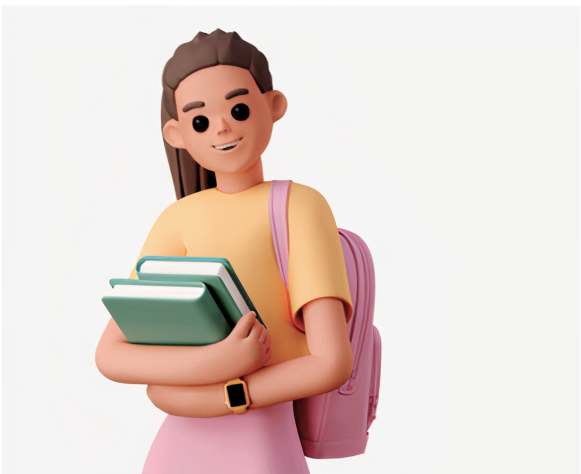
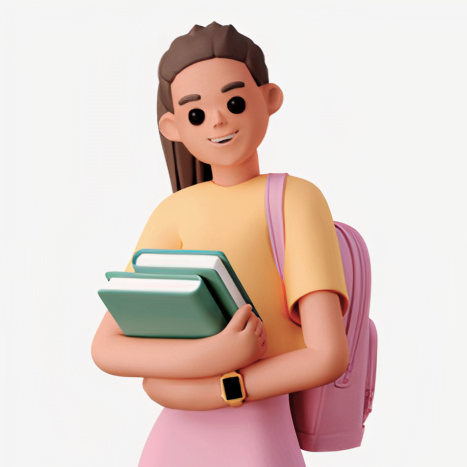
fix(frontend): edit homepage

diff --git a/frontend/src/components/ContentCardLight2.js b/frontend/src/components/ContentCardLight2.js
@@ -1,7 +1,7 @@
 import React from 'react';
 import { COLORS } from './Colors';
 import styled, { ThemeProvider } from 'styled-components';
-import image from './pictures/contentPicture3.png';
+import image from './pictures/contentPicture4.png';
 
 const theme = {
   colors: COLORS,
@@ -11,8 +11,8 @@ const Card = styled.div`
   display: flex;
   align-items: center;
   flex-direction: row;
-  padding: 3rem 20% 0px 20%;
-  background: ${(props) => props.theme.colors.greylight};
+  padding: 3rem 20%;
+  background: ${(props) => props.theme.colors.white};
 `;
 
 const ContentHeading = styled.div`
@@ -20,41 +20,39 @@ const ContentHeading = styled.div`
 `;
 
 const Media = styled.img`
-  width: 50%;
+  width: 70%;
   height: auto;
 `;
 
 const Content = styled.div`
   display: flex;
-  align-items: flex-end;
+  align-items: center;
   flex-direction: row;
 `;
 
 const Text = styled.div`
   z-index: 10;
-  min-width: 55%;
-  padding: 0px 0px 15% 0px;
 `;
 
-const ContentCardDark = () => {
+const ContentCardLight2 = () => {
   return (
     <>
       <Card>
         <Content>
+          <Media src={image} />
           <Text>
             <ContentHeading>
-              <h2>Increase your</h2>
-              <h2>vocabulary</h2>
+              <h2>Watch your</h2>
+              <h2>progress every day</h2>
             </ContentHeading>
             <h6 style={{ color: '#757575' }}>
-              Traditional and new effective approaches to word study
+              Save statistics on your achievements, words learned, and mistakes
             </h6>
           </Text>
-          <Media src={image} />
         </Content>
       </Card>
     </>
   );
 };
 
-export default ContentCardDark;
+export default ContentCardLight2;

diff --git a/frontend/src/components/ContentCardLight1.js b/frontend/src/components/ContentCardLight1.js
@@ -1,7 +1,7 @@
 import React from 'react';
 import { COLORS } from './Colors';
 import styled, { ThemeProvider } from 'styled-components';
-import image from './pictures/contentPicture3.png';
+import image from './pictures/contentPicture2.png';
 
 const theme = {
   colors: COLORS,
@@ -11,8 +11,8 @@ const Card = styled.div`
   display: flex;
   align-items: center;
   flex-direction: row;
-  padding: 3rem 20% 0px 20%;
-  background: ${(props) => props.theme.colors.greylight};
+  padding: 3rem 20%;
+  background: ${(props) => props.theme.colors.white};
 `;
 
 const ContentHeading = styled.div`
@@ -20,41 +20,39 @@ const ContentHeading = styled.div`
 `;
 
 const Media = styled.img`
-  width: 50%;
+  width: 60%;
   height: auto;
 `;
 
 const Content = styled.div`
   display: flex;
-  align-items: flex-end;
+  align-items: center;
   flex-direction: row;
 `;
 
 const Text = styled.div`
   z-index: 10;
-  min-width: 55%;
-  padding: 0px 0px 15% 0px;
 `;
 
-const ContentCardDark = () => {
+const ContentCardLight1 = () => {
   return (
     <>
       <Card>
         <Content>
+          <Media src={image} />
           <Text>
             <ContentHeading>
-              <h2>Increase your</h2>
-              <h2>vocabulary</h2>
+              <h2>Learn a language</h2>
+              <h2>in a playful way</h2>
             </ContentHeading>
             <h6 style={{ color: '#757575' }}>
-              Traditional and new effective approaches to word study
+              Make learning words more fun with mini-games
             </h6>
           </Text>
-          <Media src={image} />
         </Content>
       </Card>
     </>
   );
 };
 
-export default ContentCardDark;
+export default ContentCardLight1;

diff --git a/frontend/src/components/MainContentCard.js b/frontend/src/components/MainContentCard.js
@@ -13,7 +13,6 @@ const Card = styled.div`
   align-items: center;
   flex-direction: row;
   padding: 3rem 20%;
-  margin: 0px -20% 0px 0px;
   background: ${(props) => props.theme.colors.greylight};
 `;
 
@@ -22,27 +21,26 @@ const ContentHeading = styled.div`
 `;
 
 const Media = styled.img`
-  min-width: 400px;
-  max-width: 70%;
+  width: 80%;
   height: auto;
-  margin: 0px -10% 0px -10%;
+  margin: 0px 0px 0px -10%;
 `;
 
 const Icon = styled.img`
   height: 1.5rem;
   width: auto;
+  margin: 0px 2% 0px 0px;
 `;
 
 const Content = styled.div`
   display: flex;
-  max-width: 80%;
-  align-items: center;
   flex-direction: row;
-  margin: 0px -10% 0px 0px;
+  align-items: center;
 `;
 
 const Text = styled.div`
   z-index: 10;
+  min-width: 50%;
 `;
 
 const ActiveUserText = styled.div`

diff --git a/frontend/src/pages/index.js b/frontend/src/pages/index.js
@@ -1,15 +1,16 @@
 import React from 'react';
 import ContentCardDark from '../components/ContentCardDark';
-import ContentCardLight from '../components/ContentCardLight';
+import ContentCardLight1 from '../components/ContentCardLight1';
 import MainContentCard from '../components/MainContentCard';
+import ContentCardLight2 from '../components/ContentCardLight2';
 
 const Home = () => {
   return (
     <div>
       <MainContentCard></MainContentCard>
-      <ContentCardLight></ContentCardLight>
+      <ContentCardLight1></ContentCardLight1>
       <ContentCardDark></ContentCardDark>
-      <ContentCardLight></ContentCardLight>
+      <ContentCardLight2></ContentCardLight2>
     </div>
   );
 };

diff --git a/frontend/src/components/NavBar.js b/frontend/src/components/NavBar.js
@@ -12,6 +12,7 @@ const Nav = styled.nav`
   background: ${(props) => props.theme.colors.greylight};
   top: 0; /* Stick it to the top */
   padding: 1rem 20%;
+  height: 70px;
   box-shadow: inset 0px -1px 0px ${theme.colors.greymedium};
 `;
 
@@ -35,7 +36,7 @@ const Menu = styled.div`
   display: flex;
   justify-content: space-between;
   align-items: center;
-  @media screen and (max-width: 700px) {
+  @media screen and (max-width: 850px) {
     display: none;
   }
   font-family: 'Montserrat', sans-serif;

diff --git a/frontend/src/components/Font.js b/frontend/src/components/Font.js
@@ -14,7 +14,7 @@ export const Container = styled.div`
 
   & h2 {
     font-family: 'Dela Gothic One', cursive;
-    font-size: 48px;
+    font-size: 40px;
     line-height: 100%;
     padding: 0px;
     margin: 5px;
